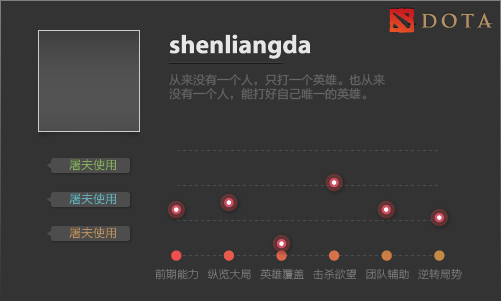
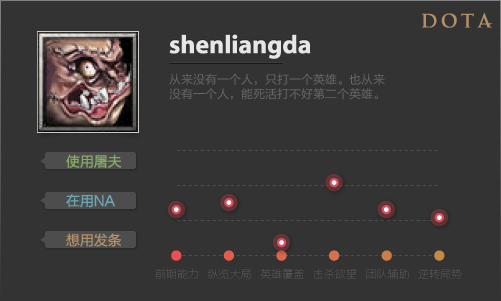
infocard_v1.2
add avatar

diff --git a/index.html b/index.html
@@ -45,7 +45,7 @@
 </code></pre>
       <div id="infocard">
         <img src="images/infocard_foxkeeper.png">
-        <img src="images/infocard_rainstoper.png">
+        <img src="images/infocard_rainstopper.png">
         <img src="images/infocard_shenliangda.png">
         <img src="images/infocard_unfallen.png">
         <img src="images/infocard_caodilidestar.png">
